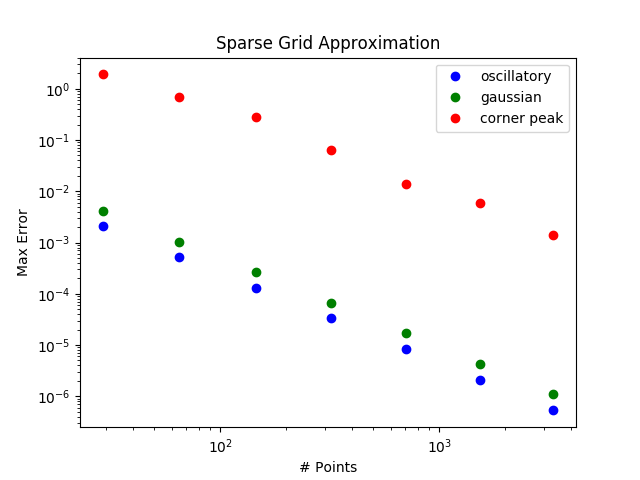
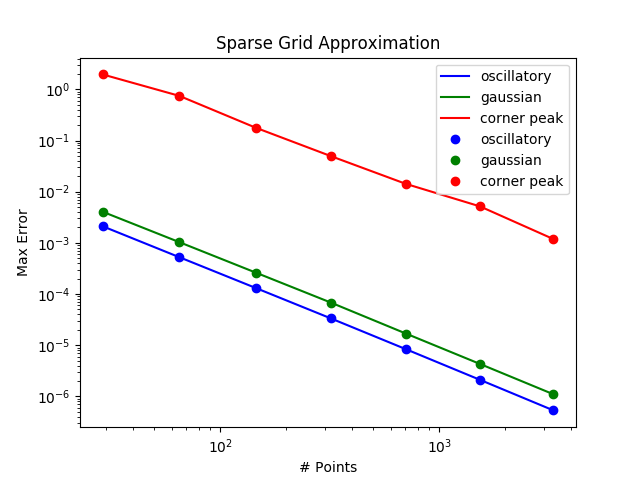
analytical concluded

diff --git a/day1_SparseGrid/SparseGridCode/analytical_examples/TASMANIAN_Python/homework.py b/day1_SparseGrid/SparseGridCode/analytical_examples/TASMANIAN_Python/homework.py
@@ -168,6 +168,9 @@ numPointsS2, errorStoreS2 = sparse_grid(iDim, iOut, which_basis, corner_peak, c,
 
 plt.xscale('log')
 plt.yscale('log')
+plt.plot(numPointsS, errorStoreS, color = 'b', label = "oscillatory")
+plt.plot(numPointsS1, errorStoreS1, color = 'g', label = "gaussian")
+plt.plot(numPointsS2, errorStoreS2, color = 'r', label = "corner peak")
 plt.plot(numPointsS, errorStoreS, 'bo', label = "oscillatory")
 plt.plot(numPointsS1, errorStoreS1, 'go', label = "gaussian")
 plt.plot(numPointsS2, errorStoreS2, 'ro', label = "corner peak")
@@ -190,6 +193,9 @@ numPointsAS2, errorStoreAS2 = adaptive_sparse_grid(iDim, iOut, fTol, which_basis
 
 plt.yscale('log')
 plt.xscale('log')
+plt.plot(numPointsAS, errorStoreAS, color = 'b', label = "oscillatory")
+plt.plot(numPointsAS1, errorStoreAS1, color = 'g', label = "gaussian")
+plt.plot(numPointsAS2, errorStoreAS2, color = 'r', label = "corner peak")
 plt.plot(numPointsAS, errorStoreAS, 'bo', label = "oscillatory")
 plt.plot(numPointsAS1, errorStoreAS1, 'go', label = "gaussian")
 plt.plot(numPointsAS2, errorStoreAS2, 'ro', label = "corner peak")
